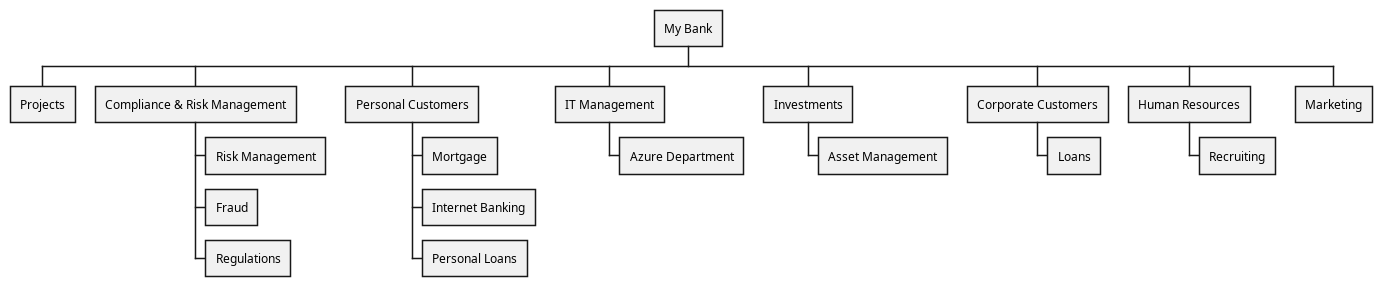
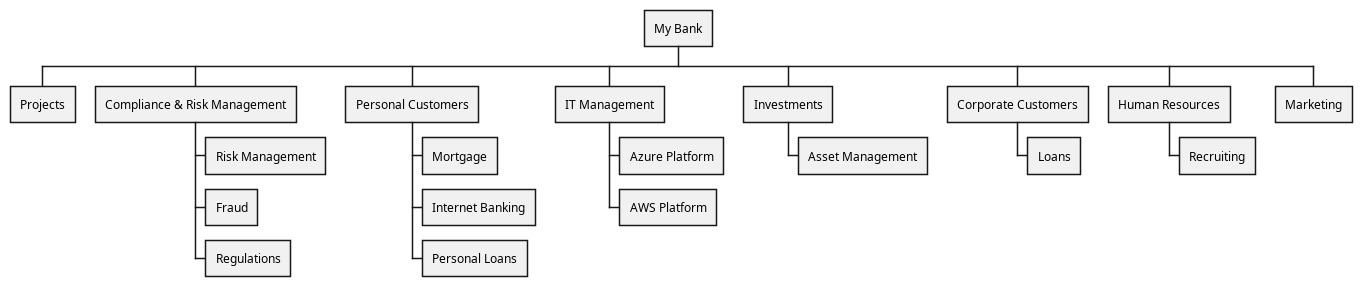
updated model and views

diff --git a/docs/reports/elements-report.md b/docs/reports/elements-report.md
@@ -25,6 +25,8 @@
  :mybank.infrastructure-management/cloud-services-system | Cloud Services | :system |  | Cloud computing resources for scalability and flexibility. | AWS and Azure | 
  :mybank.payment/payment-gateway-system-uses-transaction-processing-system | validates and processes payments using | :request |  |  |  | 
  :mybank.project-management/dev-platforms | Development Platforms | :system |  | Tools for software development, testing, and deployment. | Jenkins and GitLab | 
+ :mybank.it-management/aws-unit | AWS Platform | :org-unit |  | Responsible for the AWS platform. |  | 
+ :mybank.it-management/cloud-operations-specialist-role-in-aws-unit | role in | :role-in |  | Operates the AWS platform |  | 
  :mybank.digital-banking/digital-wallets-system | Digital Wallets | :system |  | Supports digital wallet integration and mobile payments. | Node.js and Express | 
  :mybank.concepts/customer-performs-transfer | performs | :rel |  |  |  | 
  :mybank.digital-banking/context-boundary | Digital Banking | :context-boundary |  | Enables online and mobile banking services for customers. |  | 
@@ -44,7 +46,9 @@
  :mybank.project-management/projects-org-contained-in-my-bank-organization | contained-in | :contained-in |  |  |  | 
  :mybank.user-role/personal-customer-uses-atm | withdraws cash using | :rel |  |  |  | 
  :mybank.integration-middleware/soa | Service-Oriented Architecture (SOA) | :system |  | Framework for enabling seamless integration between services. | Apache CXF | 
+ :mybank.it-management/cloud-solution-architect-role-in-azure-unit | role in | :role-in |  | Architects solutions on the Azure platform |  | 
  :mybank.compliance/aml-system | Anti-Money Laundering (AML) System | :system |  | Monitors and prevents money laundering activities. | Python and Scikit-learn | 
+ :mybank.it-management/cloud-finops-specialist | Cloud FinOps Specialist | :person |  | Operates cloud infrastructure and controls costs |  | 
  :mybank/backoffice-staff-uses-risk-management-system | assesses customer risk for loan approval using | :rel |  |  |  | 
  :mybank.user-role/personal-customer | Personal Customer | :person |  | Personal Customer of MyBank. |  | 
  :mybank.payment/ach-system-contained-in-context-boundary | contained-in | :contained-in |  |  |  | 
@@ -63,6 +67,7 @@
  :mybank.payment/swift-rtgs-neft-system | SWIFT/RTGS/NEFT | :system |  | Handles interbank transfers and settlements. | Java and Camel | 
  :mybank.it-management.azure/management-subscription | Management Subscription | :node |  | Subscription for the Management Infrastructure | Azure Subscription | #{"cloud" "platform"}
  :mybank.organization/corporate-customers | Corporate Customers | :org-unit |  |  |  | 
+ :mybank.it-management/cloud-solution-architect-role-in-aws-unit | role in | :role-in |  | Architects solutions on the AWS platform |  | 
  :mybank.compliance/risk-manager | Risk Manager | :person |  | Responsible for managing the risks. |  | 
  :mybank.digital-banking/internet-banking-system-uses-account-management-system | gets account information from, and makes payments using | :request |  |  |  | 
  :mybank.organization.personal-customers/personal-loans-org | Personal Loans | :org-unit |  |  |  | 
@@ -103,13 +108,14 @@
  :mybank.security/identity-access-management-system | Identity and Access Management (IAM) | :system |  | Manages secure access to systems and data. | OAuth 2.0 and OpenID Connect | 
  :mybank.project-management/devops-engineer | DevOps Engineer | :person |  | Develops and operates software systems. |  | 
  :mybank.digital-banking/internet-banking-system-uses-loan-management-system | fetches loan details and payment status from | :request |  |  |  | 
+ :mybank.it-management/cloud-operations-specialist | Cloud Operations Specialist | :person |  | Operates cloud infrastructure |  | 
  :mybank.digital-banking/accounts-summary-controller-contained-in-api-application | contained-in | :contained-in |  |  |  | 
  :mybank.core-banking/loan-management-system-uses-account-management-system | retrieves customer account information from | :request |  |  |  | 
- :mybank.it-management/azure-unit | Azure Department | :org-unit |  | Responsible for the Azure infrastructure. |  | 
  :mybank.it-management.azure/lz1-subscription | LZ1 Subscription | :node |  | Subscription for the landing zone 1 | Azure Subscription | #{"cloud" "platform"}
  :mybank.core-banking/account-management-system | Account Management | :system |  | Handles customer accounts, deposits, and withdrawals. | Java and Spring Boot | 
  :mybank.payment/payment-gateway-system | Payment Gateway | :system |  | Facilitates credit/debit card transactions. | Java and Spring Boot | 
  :mybank.it-management.azure/landing-zone-management-group-contained-in-mybank-tenant | contained-in | :contained-in |  |  |  | 
+ :mybank.it-management/cloud-operations-specialist-role-in-azure-unit | role in | :role-in |  | Operates the Azure platform |  | 
  :mybank.concepts/account | Account | :concept |  |  |  | 
  :mybank.digital-banking/sign-in-controller | Sign In Controller | :component |  | Allows users to sign in to the banking system. | Clojure namespace | 
  :mybank/backoffice-staff-uses-loan-management-system | processes loan applications and updates loan status using | :rel |  |  |  | 
@@ -138,6 +144,8 @@
  :mybank/integration-middleware-context | Integration and Middleware | :context-boundary |  | Facilitates integration across systems. |  | 
  :mybank.concepts/bank | Bank | :concept |  | Organization providing services around money |  | 
  :mybank.user-role/backoffice-staff | Backoffice Staff | :person |  | Administration and support staff within the bank. |  | 
+ :mybank.it-management/azure-unit | Azure Platform | :org-unit |  | Responsible for the Azure platform. |  | 
+ :mybank.it-management/it-management-org | IT Management | :org-unit |  | Responsible for the IT platform of MyBank |  | 
  :mybank.it-management.azure/identity-subscription-contained-in-platform-management-group | contained-in | :contained-in |  |  |  | 
  :mybank.it-management.azure/connectivity-subscription | Connectivity Subscription | :node |  | Subscription for the Connectivity Infrastructure | Azure Subscription | #{"cloud" "platform"}
  :mybank.investments/investments-org | Investments | :org-unit |  |  |  | 
@@ -152,6 +160,7 @@
  :mybank.infrastructure-management/system-monitoring-system | System Monitoring | :system |  | Monitors system performance and health. | Nagios and Prometheus | 
  :mybank.digital-banking/core-banking-systems-facade-contained-in-api-application | contained-in | :contained-in |  |  |  | 
  :mybank.it-management.azure/landing-zone-management-group | Landing Zone Management Group | :node |  |  |  | 
+ :mybank.it-management/aws-unit-contained-in-it-management-org | contained-in | :contained-in |  |  |  | 
  :mybank.digital-banking/security-component | Security Component | :component |  | Handles authentication, password changes, etc. | Clojure namespace | 
  :mybank.customer-channels/contact-center-system | Contact Center | :system |  | Telephony and customer support systems for call centers. | Genesys and Avaya | 
  :mybank.concepts/corporate-customer-is-a-customer | is a | :is-a |  |  |  | 
@@ -182,6 +191,7 @@
  :mybank.core-banking/loan-management-system | Loan Management | :system |  | Manages loan products, applications, and repayments. | Java and Spring Boot | 
  :mybank.integration-middleware/esb-contained-in-integration-middleware-context | contained-in | :contained-in |  |  |  | 
  :mybank.user-role/corporate-customer | Corporate Customer | :person |  | Corporate Customer of MyBank. |  | 
+ :mybank.compliance/risk-manager-role-in-risk-management | function | :role-in |  |  |  | 
  :mybank.concepts/corporate-customer | Corporate Customer | :concept |  | An organization requesting services around money |  | 
  :mybank.concepts/withdrawal-from-account | from | :rel |  |  |  | 
  :mybank.security/cybersecurity-system | Cybersecurity | :system |  | Protects against cyber threats. | Snort and Suricata | 
@@ -189,6 +199,7 @@
  :mybank.it-management.onprem/data-center | MyBank On Premise Datacenter | :node |  | Data Center of MyBank |  | #{"onprem" "platform"}
  :mybank.core-banking/context-boundary | Core Banking System | :context-boundary |  | Manages customer accounts, transactions, and loans. |  | 
  :mybank.human-resources/hris-contained-in-context-boundary | contained-in | :contained-in |  |  |  | 
+ :mybank.it-management/cloud-finops-specialist-role-in-aws-unit | role in | :role-in |  | Operations and cost control for the AWS platform |  | 
  :mybank.compliance/fraud-contained-in-compliance-org | contained-in | :contained-in |  |  |  | 
  :mybank.concepts/withdrawal | Withdrawal | :concept |  | Takes money from account |  | 
  :mybank.organization.personal-customers/personal-loans-org-contained-in-personal-customers | contained-in | :contained-in |  |  |  | 
@@ -202,6 +213,7 @@
  :mybank.concepts/bank-has-customer | has | :has |  |  |  | 
  :mybank.concepts/customer-performs-withdrawal | performs | :rel |  |  |  | 
  :mybank.payment/context-boundary-contained-in-mybank-plc | contained-in | :contained-in |  |  |  | 
+ :mybank.it-management/cloud-finops-specialist-role-in-azure-unit | role in | :role-in |  | Operations and cost control for the Azure platform |  | 
  :mybank.concepts/bank-has-account | provides | :has |  |  |  | 
  :mybank.organization/human-resources-contained-in-my-bank-organization | contained-in | :contained-in |  |  |  | 
  :mybank/customer-service-staff-uses-email-system | sends and receives customer communication using | :rel |  |  |  | 
@@ -209,7 +221,6 @@
  :mybank.digital-banking/email-component | E-mail Component | :component |  | Sends e-mails to users. | Clojure namespace | 
  :mybank.concepts/customer-requests-loan | requests | :rel |  |  |  | 
  :mybank.digital-banking/internet-banking-system-uses-payment-gateway-system | processes customer payments using | :request |  |  |  | 
- :mybank.it-management/cloud-solution-architect | Cloud Operations Specialist | :person |  | Operates cloud infrastructure |  | 
  :mybank.it-management.onprem/data-center-links-to-hub-vnet | network link | :link |  | High speed/volume link 100 Mb/s | Azure Express Route | #{"cloud" "platform"}
  :mybank.infrastructure-management/system-monitoring-system-contained-in-context-boundary | contained-in | :contained-in |  |  |  | 
  :mybank.digital-banking/single-page-app-calls-accounts-summary-controller | makes API calls to | :request |  |  | Transit/HTTPS | 
@@ -237,9 +248,7 @@
  :mybank.digital-banking/internet-banking-system | Internet Banking System | :system |  | Allows customers to view information about their bank accounts and make payments. |  | 
  :mybank.organization/marketing-contained-in-my-bank-organization | contained-in | :contained-in |  |  |  | 
  :mybank.human-resources/talent-management-system | Talent Management | :system |  | Tools for recruitment, training, and performance management. | SAP SuccessFactors | 
- :mybank.it-management/it-management-org | IT Management | :org-unit |  | Responsible for the IT platform of MyBank |  | 
  :mybank.user-role/personal-customer-uses-mobile-app | views account balances and makes payments using | :request |  |  |  | 
- :mybank.it-management/cloud-solution-architect | Cloud FinOps Specialist | :person |  | Operates cloud infrastructure and controls costs |  | 
  :mybank.compliance/fraud-detection-system | Fraud Detection System | :system |  | Detects and mitigates fraudulent activities. | Python and TensorFlow | 
  :mybank.project-management/project-management-tools-contained-in-context-boundary | contained-in | :contained-in |  |  |  | 
  :mybank.user-role/personal-customer-asks-customer-service-staff | asks questions to | :rel |  |  |  | 

diff --git a/docs/mybank/user-roles.md b/docs/mybank/user-roles.md
@@ -1,18 +1,20 @@
 # User Roles
 
+This is a list of the user roles.
+
 | User Role | Description |
 |---|---|
 | [Customer Service Staff](mybank/user-role/customer-service-staff.md) | Customer service staff within the bank. |  
+| [Cloud FinOps Specialist](mybank/it-management/cloud-finops-specialist.md) | Operates cloud infrastructure and controls costs |  
 | [Personal Customer](mybank/user-role/personal-customer.md) | Personal Customer of MyBank. |  
 | [Risk Manager](mybank/compliance/risk-manager.md) | Responsible for managing the risks. |  
 | [DevOps Engineer](mybank/project-management/devops-engineer.md) | Develops and operates software systems. |  
+| [Cloud Operations Specialist](mybank/it-management/cloud-operations-specialist.md) | Operates cloud infrastructure |  
 | [Compliance Manager](mybank/compliance/compliance-manager.md) | Responsible for the compliance of MyBank. |  
 | [Backoffice Staff](mybank/user-role/backoffice-staff.md) | Administration and support staff within the bank. |  
 | [Cloud Solution Architect](mybank/it-management/cloud-solution-architect.md) | Designs cloud solutions |  
 | [Project Manager](mybank/project-management/project-manager.md) | Manages projects at MyBank. |  
 | [Corporate Customer](mybank/user-role/corporate-customer.md) | Corporate Customer of MyBank. |  
-| [Cloud Operations Specialist](mybank/it-management/cloud-solution-architect.md) | Operates cloud infrastructure |  
-| [Cloud FinOps Specialist](mybank/it-management/cloud-solution-architect.md) | Operates cloud infrastructure and controls costs |  
 
 
 (generated with docs/user-roles.md.cmb)

diff --git a/docs/mybank/container-view.md b/docs/mybank/container-view.md
@@ -10,14 +10,16 @@ shows the containers of the MyBank Systems
 | Name | Description |
 |---|---|
 | [Customer Service Staff](../mybank/user-role/customer-service-staff.md) | Customer service staff within the bank. |
+| [Cloud FinOps Specialist](../mybank/it-management/cloud-finops-specialist.md) | Operates cloud infrastructure and controls costs |
 | [Personal Customer](../mybank/user-role/personal-customer.md) | Personal Customer of MyBank. |
 | [Risk Manager](../mybank/compliance/risk-manager.md) | Responsible for managing the risks. |
 | [DevOps Engineer](../mybank/project-management/devops-engineer.md) | Develops and operates software systems. |
+| [Cloud Operations Specialist](../mybank/it-management/cloud-operations-specialist.md) | Operates cloud infrastructure |
 | [Compliance Manager](../mybank/compliance/compliance-manager.md) | Responsible for the compliance of MyBank. |
 | [Backoffice Staff](../mybank/user-role/backoffice-staff.md) | Administration and support staff within the bank. |
+| [Cloud Solution Architect](../mybank/it-management/cloud-solution-architect.md) | Designs cloud solutions |
 | [Project Manager](../mybank/project-management/project-manager.md) | Manages projects at MyBank. |
 | [Corporate Customer](../mybank/user-role/corporate-customer.md) | Corporate Customer of MyBank. |
-| [Cloud FinOps Specialist](../mybank/it-management/cloud-solution-architect.md) | Operates cloud infrastructure and controls costs |
 ## Systems
 | Name | Description |
 |---|---|

diff --git a/docs/mybank/context-view.md b/docs/mybank/context-view.md
@@ -9,14 +9,16 @@ shows the systems of MyBank
 | Name | Description |
 |---|---|
 | [Customer Service Staff](../mybank/user-role/customer-service-staff.md) | Customer service staff within the bank. |
+| [Cloud FinOps Specialist](../mybank/it-management/cloud-finops-specialist.md) | Operates cloud infrastructure and controls costs |
 | [Personal Customer](../mybank/user-role/personal-customer.md) | Personal Customer of MyBank. |
 | [Risk Manager](../mybank/compliance/risk-manager.md) | Responsible for managing the risks. |
 | [DevOps Engineer](../mybank/project-management/devops-engineer.md) | Develops and operates software systems. |
+| [Cloud Operations Specialist](../mybank/it-management/cloud-operations-specialist.md) | Operates cloud infrastructure |
 | [Compliance Manager](../mybank/compliance/compliance-manager.md) | Responsible for the compliance of MyBank. |
 | [Backoffice Staff](../mybank/user-role/backoffice-staff.md) | Administration and support staff within the bank. |
+| [Cloud Solution Architect](../mybank/it-management/cloud-solution-architect.md) | Designs cloud solutions |
 | [Project Manager](../mybank/project-management/project-manager.md) | Manages projects at MyBank. |
 | [Corporate Customer](../mybank/user-role/corporate-customer.md) | Corporate Customer of MyBank. |
-| [Cloud FinOps Specialist](../mybank/it-management/cloud-solution-architect.md) | Operates cloud infrastructure and controls costs |
 ## Systems
 | Name | Description |
 |---|---|

diff --git a/docs/mybank/glossary.md b/docs/mybank/glossary.md
@@ -28,10 +28,14 @@ Advanced analytics for predictive modeling.
 Software and hardware for in-branch banking services.
 ### [Business Intelligence (BI)](../mybank/data-management/business-intelligence-system.md)
 Provides tools for reporting and data analysis.
-### [Cloud FinOps Specialist](../mybank/it-management/cloud-solution-architect.md)
+### [Cloud FinOps Specialist](../mybank/it-management/cloud-finops-specialist.md)
 Operates cloud infrastructure and controls costs
+### [Cloud Operations Specialist](../mybank/it-management/cloud-operations-specialist.md)
+Operates cloud infrastructure
 ### [Cloud Services](../mybank/infrastructure-management/cloud-services-system.md)
 Cloud computing resources for scalability and flexibility.
+### [Cloud Solution Architect](../mybank/it-management/cloud-solution-architect.md)
+Designs cloud solutions
 ### [Compliance Manager](../mybank/compliance/compliance-manager.md)
 Responsible for the compliance of MyBank.
 ### [Compliance System](../mybank/compliance/compliance-system.md)

diff --git a/docs/mybank/it-management/aws-unit.md b/docs/mybank/it-management/aws-unit.md
@@ -1,17 +1,12 @@
-# Azure Platform
+# AWS Platform
 ## Description
-Responsible for the Azure platform.
+Responsible for the AWS platform.
 
 
 ## Parent Unit
 | Name | Description |
 |---|---|
 | [IT Management](../../mybank/it-management/it-management-org.md) | Responsible for the IT platform of MyBank |
-
-## Responsibilities
-| Name | Description |
-|---|---|
-| [MyBank Azure Tenant](../../mybank/it-management/azure/mybank-tenant.md) | Azure Tenant for MyBank |
 
 
 (generated with docs/organization.md.cmb)

diff --git a/docs/mybank/it-management/it-management-org.md b/docs/mybank/it-management/it-management-org.md
@@ -11,7 +11,8 @@ Responsible for the IT platform of MyBank
 ## Sub Units
 | Name | Description |
 |---|---|
-| [Azure Department](../../mybank/it-management/azure-unit.md) | Responsible for the Azure infrastructure. |
+| [Azure Platform](../../mybank/it-management/azure-unit.md) | Responsible for the Azure platform. |
+| [AWS Platform](../../mybank/it-management/aws-unit.md) | Responsible for the AWS platform. |
 
 
 (generated with docs/organization.md.cmb)

diff --git a/docs/mybank/it-management/cloud-solution-architect.md b/docs/mybank/it-management/cloud-solution-architect.md
@@ -1,7 +1,7 @@
-# User Role Cloud FinOps Specialist
+# User Role Cloud Solution Architect
 
 ## Description
-Operates cloud infrastructure and controls costs
+Designs cloud solutions
 
 
 

diff --git a/docs/mybank/it-management/cloud-finops-specialist.md b/docs/mybank/it-management/cloud-finops-specialist.md
@@ -1,0 +1,8 @@
+# User Role Cloud FinOps Specialist
+
+## Description
+Operates cloud infrastructure and controls costs
+
+
+
+(generated with docs/user-role.md.cmb)

diff --git a/docs/mybank/it-management/cloud-operations-specialist.md b/docs/mybank/it-management/cloud-operations-specialist.md
@@ -1,0 +1,8 @@
+# User Role Cloud Operations Specialist
+
+## Description
+Operates cloud infrastructure
+
+
+
+(generated with docs/user-role.md.cmb)

diff --git a/docs/mybank/use-cases.md b/docs/mybank/use-cases.md
@@ -1,5 +1,7 @@
 # Use Cases
 
+This is a list of the use cases.
+
 | Use Case | Level | Description |
 |---|---|---|
 
